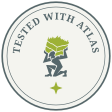
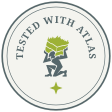
docs: pull the seal ring text further off the inner rule
The previous baseline (r=36.5) measured clear of the inner ring on
paper but read as crowding it once rendered: no visible margin at the
sides where the letters sit almost sideways. Moved the baseline to
r=33, nearly doubling the rendered gap, and added an assertion in
build_seal so the clearance regresses loudly instead of silently.

Changed region(s): [[0.1071, 0.1071, 0.8839, 0.5357]]

diff --git a/docs/assets/badges/generate.py b/docs/assets/badges/generate.py
@@ -256,10 +256,19 @@ def build_seal(p: dict, uid: str) -> tuple[str, float, float]:
     cx, cy = w / 2, h / 2
     mark_w = titan_width(44)
     mark, _ = titan_group(cx - mark_w / 2, cy - 22, 44, p["titan"], simplify=True)
-    # Baseline at r=36.5 puts the caps' outer edge (~7.5 px tall) near r=44,
-    # clear of the inner ring at r=49 by 5 px, and of the outer ring at
-    # r=53.8 by almost 10 px: a band of its own, not crowding either rule.
-    ring_path = arc_path(cx, cy, 36.5, -125, 125)
+    # Baseline at r=33 puts the caps' outer edge (~7.5 px tall) near r=40.5,
+    # clear of the inner ring at r=49 by close to 8 px, and of the outer
+    # ring at r=53.8 by 12+ px: real breathing room from both rules, not
+    # just clear of them (r=36.5 measured clear on paper but read as
+    # crowding the inner rule once rendered).
+    ring_text_r = 33
+    cap_h = 7.5  # rendered cap height at font-size 9.5, measured off the glyphs
+    inner_ring_r, inner_ring_stroke = w / 2 - 7, 0.6
+    min_gap = 6  # smallest gap that still reads as "clear" once rendered, not just on paper
+    assert ring_text_r + cap_h <= inner_ring_r - inner_ring_stroke / 2 - min_gap, (
+        "seal ring text crowds the inner rule again"
+    )
+    ring_path = arc_path(cx, cy, ring_text_r, -125, 125)
     body = [
         f'<circle cx="{cx}" cy="{cy}" r="{w/2 - 1}" fill="{p["bg"]}"/>',
         f'<circle cx="{cx}" cy="{cy}" r="{w/2 - 2.2}" fill="none" '
